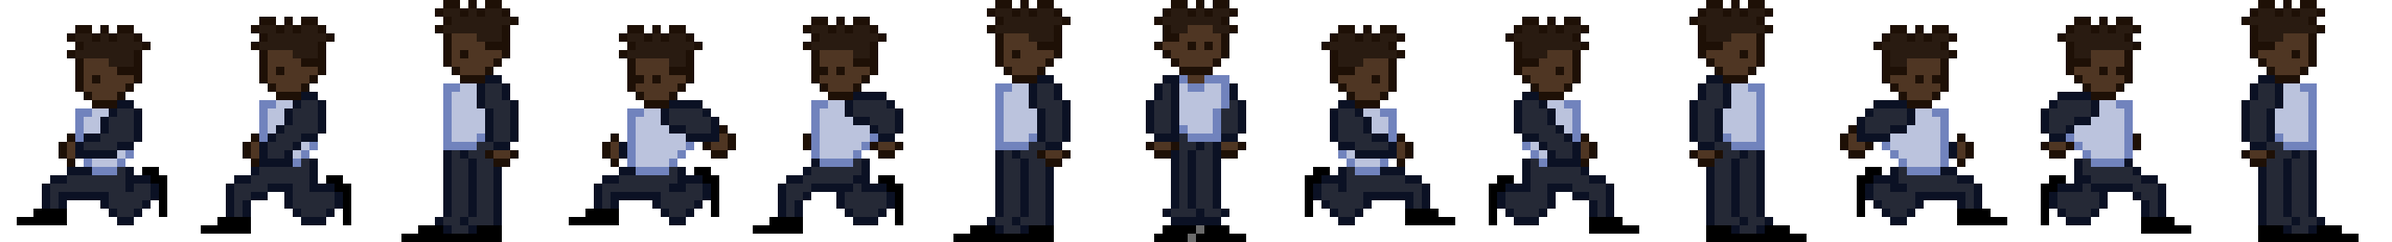
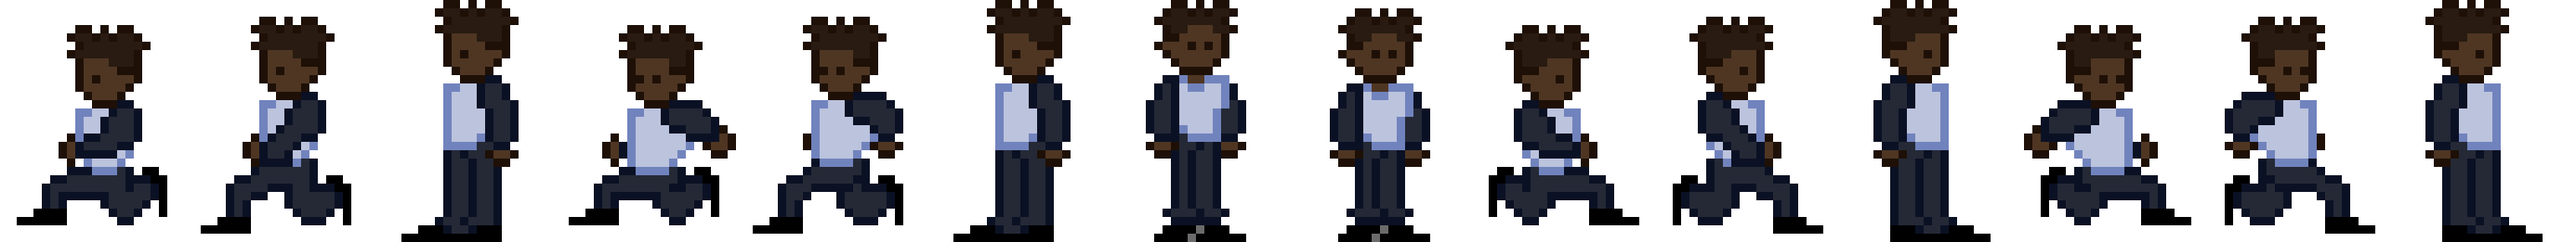
uuuuupdated some stuff

diff --git a/main.js b/main.js
@@ -23,44 +23,34 @@ function create() {
     
     platforms = game.add.group();
     
-    // Here we create the ground.
     ground = platforms.create(0, game.world.height - 60, 'ground');
     
-    //  Double the size of the platform (vertically by 2 and horizontally by 2)
     ground.scale.setTo(1, 1);
     
-    //  We need to enable physics on the ground so that it can move and collide with stuff
     game.physics.arcade.enable(ground);
     
-    //  This stops the ground from falling away when you jump on it
     ground.body.immovable = true;
     
-    // The player and its settings
     player = game.add.sprite(32, game.world.height - 150, 'mc');
     player.scale.setTo(0.2,0.2);
     
-    //  We need to enable physics on the player so that it can move and collide with stuff
     game.physics.arcade.enable(player);
     
-    //  Player physics properties.
     player.body.gravity.y = 2000;
     
-    //  Our controls.
     keys = game.input.keyboard.createCursorKeys();
     
     // Add animations to the player
     player.animations.add('left', [0, 1, 2, 3, 4, 5], 10, true);
-    player.animations.add('right', [7, 8, 9, 10, 12, 13], 10, true);
+    player.animations.add('right', [8, 9, 10, 12, 13], 10, true);
+    player.animations.add('idle', [6, 7], 2,  true);
     
-    //  Now let's create two ledges
     var ledge1 = platforms.create(400, 450, 'ground');
     var ledge2 = platforms.create(50, 250, 'ground');
     var ledge3 = platforms.create(500, 150, 'ground');
     
-    // Enable physics on the platforms so you can collide with them
     game.physics.arcade.enable(platforms);
     
-    // Prevent the ledges from moving
     ledge1.body.immovable = true;
     ledge2.body.immovable = true;
     ledge3.body.immovable = true;
@@ -68,11 +58,10 @@ function create() {
 
 function update() {
     
-    // Check for collisions between the player and the ground
     game.physics.arcade.collide(player, ground);
-    
-    // Check for collisions between the player and all platforms
     game.physics.arcade.collide(player, platforms);
+    
+    // key controls below
     
     if (keys.left.isDown) {
         player.body.velocity.x = -150;
@@ -84,8 +73,7 @@ function update() {
     }
     else {
         player.body.velocity.x = 0;
-        player.animations.stop();
-        player.frame = 6;
+        player.animations.play('idle');
     }
     
     if (keys.up.isDown && player.body.touching.down) {

diff --git a/index.html b/index.html
@@ -2,7 +2,7 @@
 <html lang="en"> 
 <head> 
 	<meta charset="UTF-8" />
-	<title>Final Game -- title undecided</title>
+	<title>The Non-Organic Life of Solace</title>
 </head>
 <body style="margin: auto;">
     <div id="game-div"></div>
